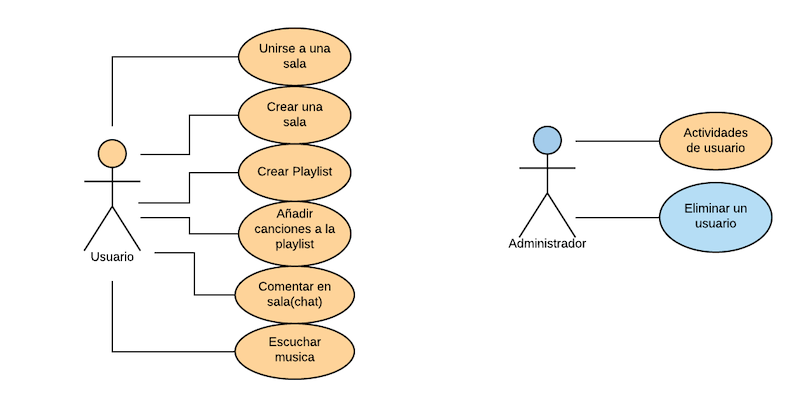
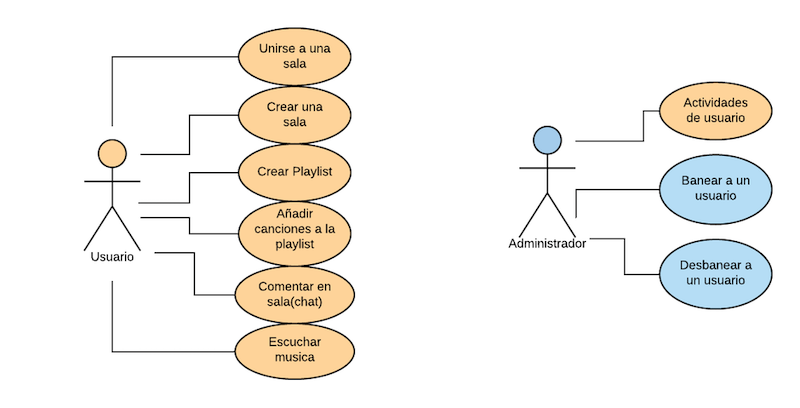
baneo y desbaneo

Changed region(s): [[0.7188, 0.1765, 0.9688, 0.7647]]

diff --git a/src/main/resources/templates/js/app.js b/src/main/resources/templates/js/app.js
@@ -82,7 +82,9 @@ var app = (function () {
                 users.nombre +
                 '</td> <td>' +
                 users.nickname +
-                "</td> <td> <form><button type='button' class='btn btn-primary' style='width:50%;background-color: #17202A; border: 0' onclick='apiclient.banUser(\""+ users.nickname+"\")'><img  src='../img/eliminar.png' style='width:50%' alt='x'/></button></form></td>"
+                "</td> <td> <form><button type='button' class='btn btn-primary' style='width:50%;background-color: #17202A; border: 0' onclick='apiclient.banUser(\""+ users.nickname+"\")'><img  src='../img/baneo.png' style='width:50%' alt='x'/></button></form></td>" +
+                "</td> <td> <form><button type='button' class='btn btn-primary' style='width:50%;background-color: #17202A; border: 0' onclick='apiclient.desbanUser(\""+ users.nickname+"\")'><img  src='../img/desbaneo.png' style='width:50%' alt='x'/></button></form></td>"
+
             );
 
         });

diff --git a/src/main/resources/templates/html/adminScreen.html b/src/main/resources/templates/html/adminScreen.html
@@ -65,7 +65,8 @@
                             <th scope="col">id</th>
                             <th scope="col">nombre</th>
                             <th scope="col">nickname</th>
-                            <th scope="col">elevar</th>
+                            <th scope="col">banear</th>
+                            <th scope="col">desbanear</th>
                         </tr>
                         </thead>
                         <tbody id="tablasUsers">
